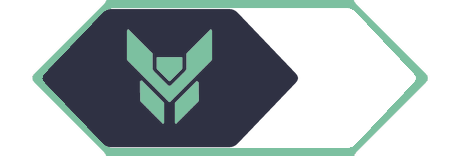
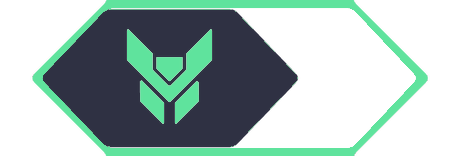
fix:翡翠段位图标与分布图配色统一为亮绿

Changed region(s): [[0.0609, 0.0, 0.9435, 1.0], [0.2739, 0.1795, 0.487, 0.7949]]

diff --git a/src/modules/dashen_quick_strength/render.py b/src/modules/dashen_quick_strength/render.py
@@ -65,7 +65,7 @@ COMPETITIVE_STRENGTH_THEME = {
 TOP_TIER_ICON_LEVELS = {6, 7, 8}
 RANK_DISTRIBUTION_COLORS = (
     (207, 120, 86), (196, 201, 200), (217, 164, 59),
-    (149, 213, 179), (92, 211, 156), (93, 163, 241),
+    (149, 213, 179), (95, 227, 157), (93, 163, 241),
     (140, 230, 94), (135, 115, 249), (190, 123, 224),
 )
 

diff --git a/src/modules/internal_rank_distribution/render.py b/src/modules/internal_rank_distribution/render.py
@@ -25,7 +25,7 @@ RANK_COLORS: dict[str, tuple[int, int, int]] = {
     "Silver": (196, 201, 200),
     "Gold": (217, 164, 59),
     "Platinum": (149, 213, 179),
-    "Emerald": (92, 211, 156),
+    "Emerald": (95, 227, 157),
     "Diamond": (93, 163, 241),
     "Master": (140, 230, 94),
     "Grandmaster": (135, 115, 249),
